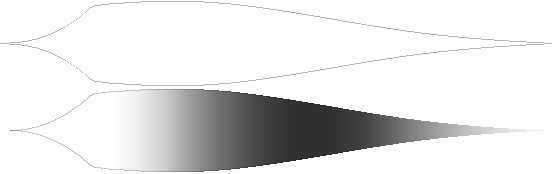
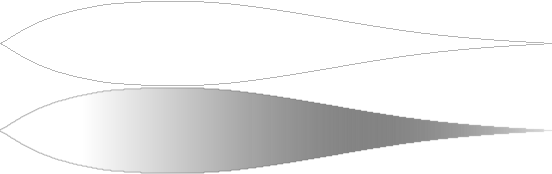
thrstyjrkjsryk

diff --git a/Content/Projectiles/NPCProjectiles/NightEmpressProjectiles/MoonDancePetal.cs b/Content/Projectiles/NPCProjectiles/NightEmpressProjectiles/MoonDancePetal.cs
@@ -43,7 +43,7 @@ namespace BlockContent.Content.Projectiles.NPCProjectiles.NightEmpressProjectile
                 float rotation = Utils.GetLerpValue(_maxTime, 15, Projectile.localAI[0], true);
                 Projectile.rotation = Projectile.ai[0] - (rotation * MathHelper.ToRadians(45));
 
-                float centerLerp = MathHelper.SmoothStep(0, 1, MoreUtils.DualLerp(30, 60, _maxTime - 90, _maxTime - 60, Projectile.localAI[0], true));
+                float centerLerp = MathHelper.SmoothStep(0, 1, MoreUtils.DualLerp(45, _maxTime - 90, _maxTime - 45, Projectile.localAI[0], true));
                 _modifiedCenter = Projectile.Center + new Vector2(centerLerp * 340, 0).RotatedBy(Projectile.rotation);
             }
             else
@@ -74,7 +74,7 @@ namespace BlockContent.Content.Projectiles.NPCProjectiles.NightEmpressProjectile
[1 lines of base64/hex data omitted]
             Rectangle baseFrame = texture.Frame(1, 2, 0, 0);
             Rectangle overlayFrame = texture.Frame(1, 2, 0, 1);
-            Vector2 origin = baseFrame.Size() * new Vector2(0.04f, 0.5f);
+            Vector2 origin = baseFrame.Size() * new Vector2(0.08f, 0.5f);
             Color dark = NightEmpress.SpecialColor(1);
             dark.A = 25;
             Color light = NightEmpress.SpecialColor(0);
@@ -82,7 +82,7 @@ namespace BlockContent.Content.Projectiles.NPCProjectiles.NightEmpressProjectile
             Color night = NightEmpress.SpecialColor(0, true);
             night.A = 25;
 
-            Vector2 scale = new Vector2(0.8f, 0.66f) * Projectile.scale;
+            Vector2 scale = new Vector2(0.9f, 0.7f) * Projectile.scale;
 
             Main.EntitySpriteDraw(texture.Value, _modifiedCenter - Main.screenPosition, baseFrame, Color.Black * 0.15f, Projectile.rotation, origin, scale * 1.1f, SpriteEffects.None, 0);
             Main.EntitySpriteDraw(texture.Value, _modifiedCenter - Main.screenPosition, baseFrame, dark, Projectile.rotation, origin, scale, SpriteEffects.None, 0);

diff --git a/Content/NPCs/NightEmpressBoss/NightEmpress.cs b/Content/NPCs/NightEmpressBoss/NightEmpress.cs
@@ -202,14 +202,14 @@ namespace BlockContent.Content.NPCs.NightEmpressBoss
                         MoonDanceProjectiles(9, Main.rand.NextFloat() * MathHelper.TwoPi);
 
                     if (PhaseCounter % interval <= 50 && NPC.Distance(targetPos) > 250)
-                        NPC.velocity += NPC.DirectionTo(targetPos).SafeNormalize(Vector2.Zero) * Utils.GetLerpValue(20, 200, NPC.Distance(targetPos)) * 0.4f;
+                        NPC.velocity += NPC.DirectionTo(targetPos).SafeNormalize(Vector2.Zero) * Utils.GetLerpValue(20, 200, NPC.Distance(targetPos)) * 0.3f;
                     else
                         NPC.velocity = NPC.velocity.RotatedBy(MathHelper.ToRadians(0.1f) * _direction) * 0.98f;
 
 
                 }
                 if (PhaseCounter == 280)
-                    NPC.velocity = NPC.DirectionFrom(targetPos).SafeNormalize(Vector2.Zero) * 12;
+                    NPC.velocity = NPC.DirectionFrom(targetPos).SafeNormalize(Vector2.Zero) * 10;
 
                 if (PhaseCounter > attackLength)
                 {
